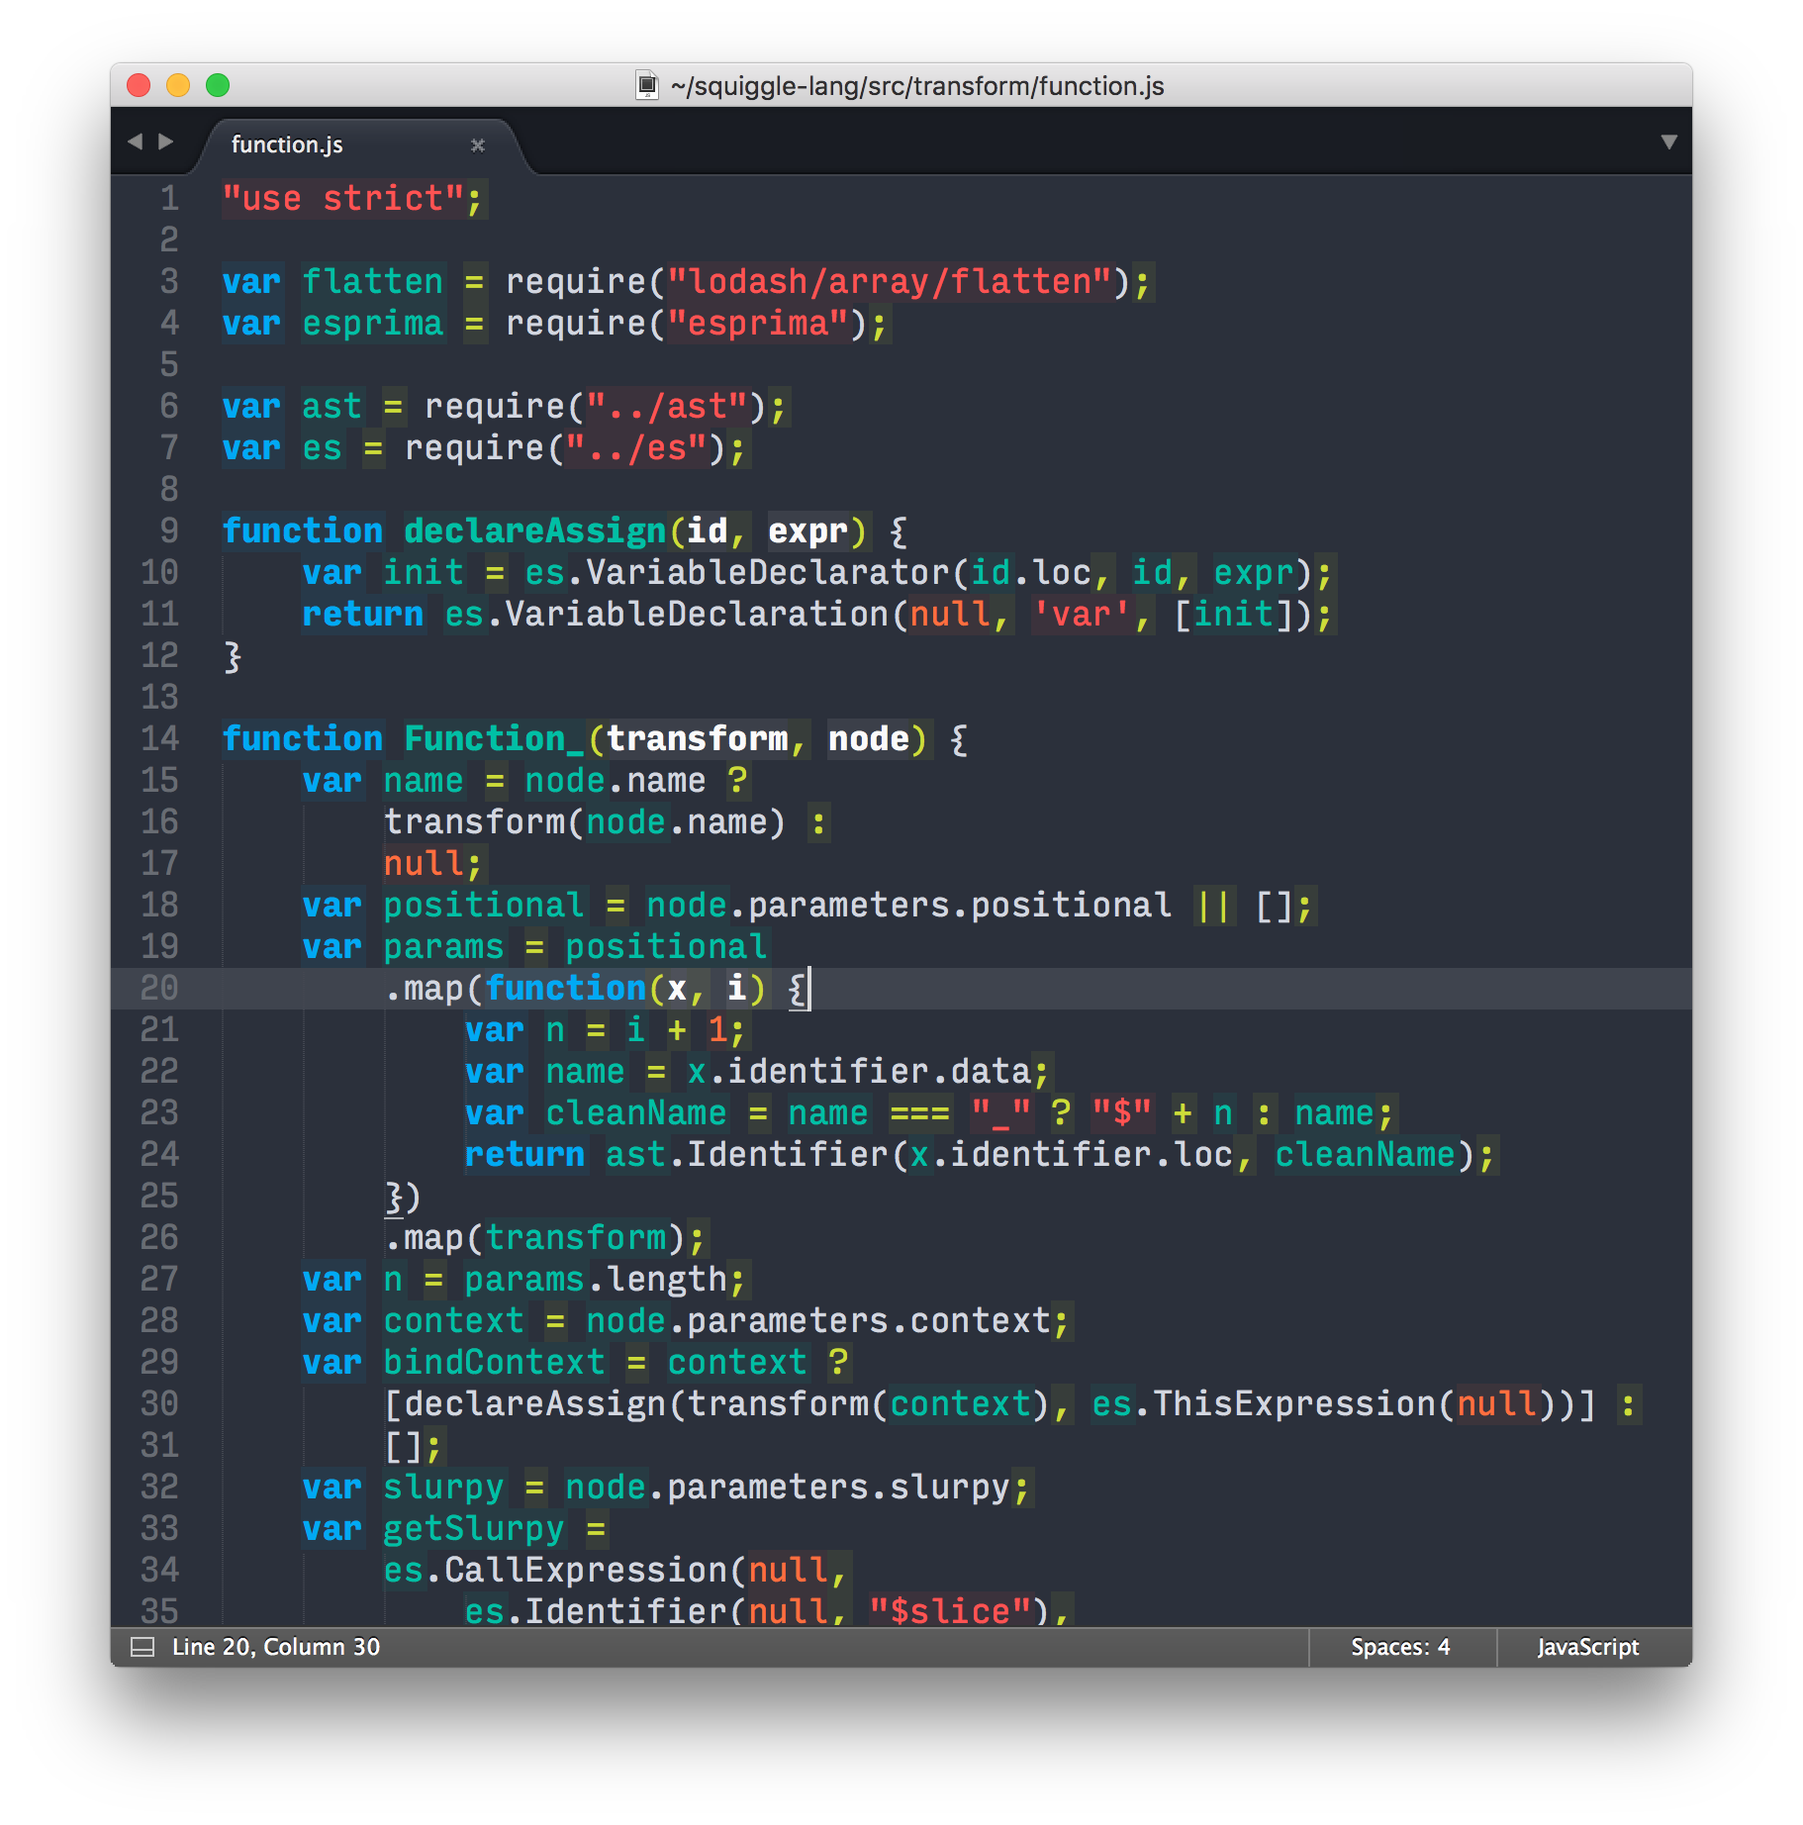
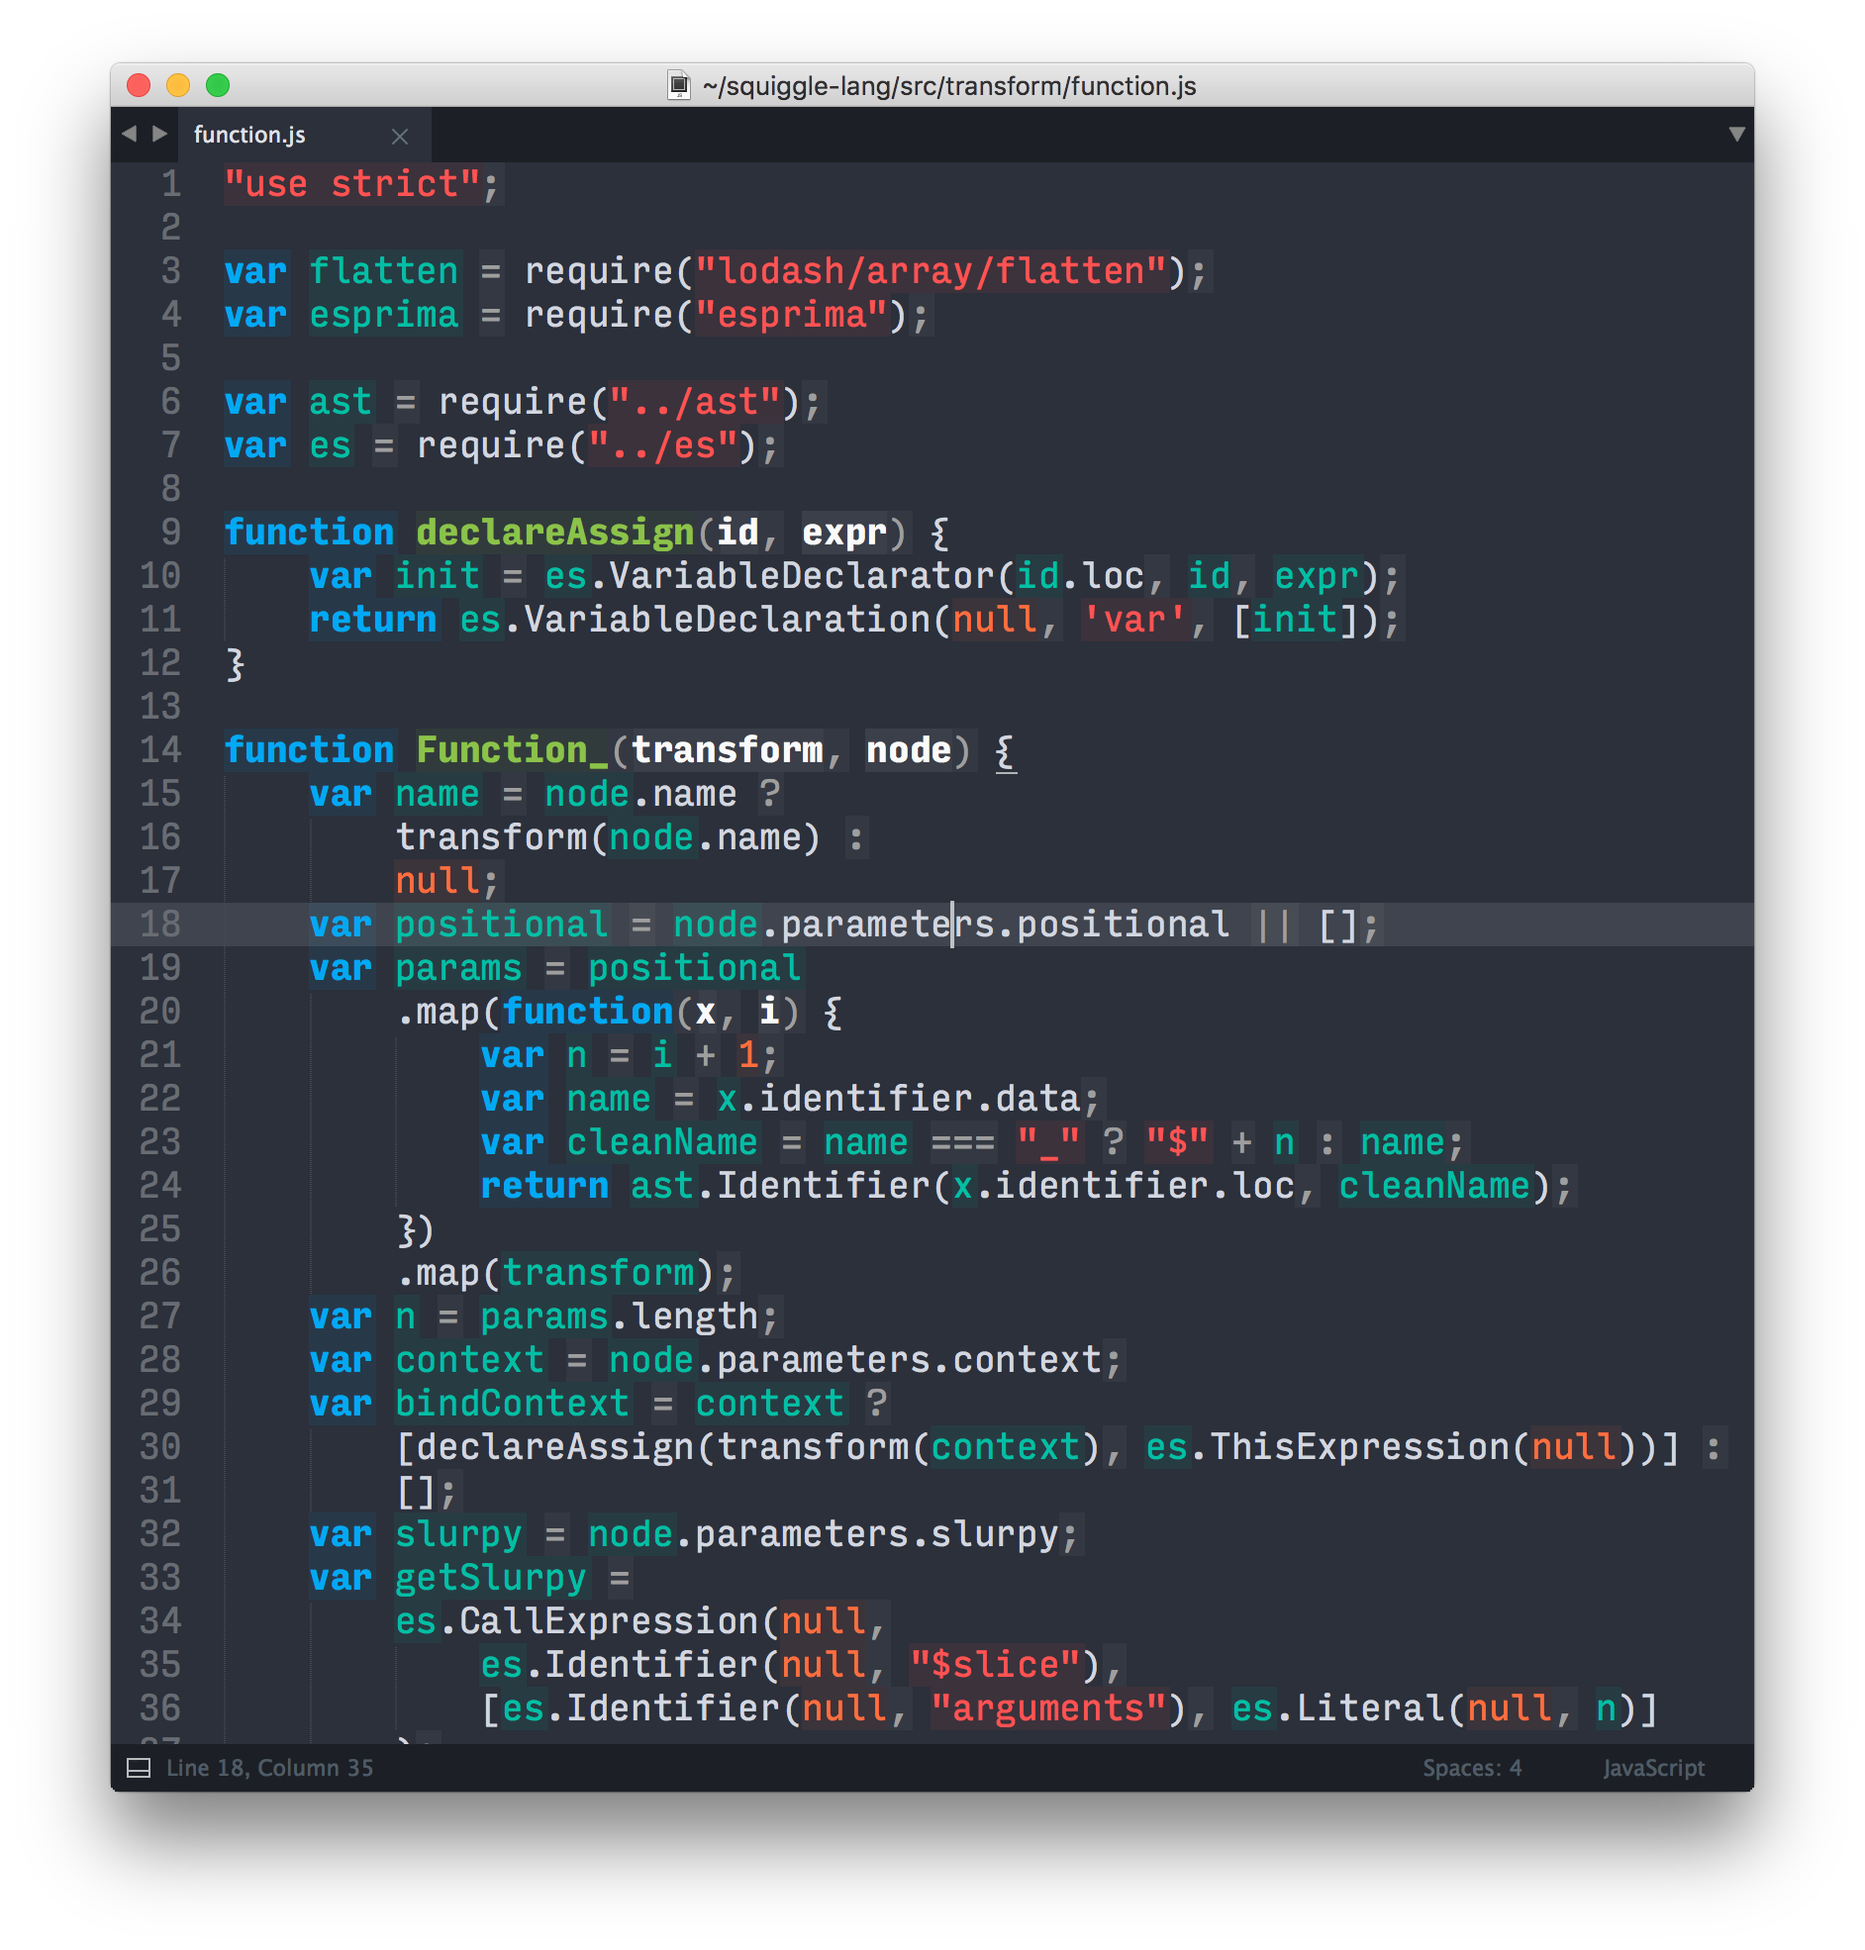
More tweaks

Changed region(s): [[0.0615, 0.2782, 0.9528, 0.9273], [0.0615, 0.0309, 0.9528, 0.34]]

diff --git a/main.rb b/main.rb
@@ -12,7 +12,7 @@ module Color
   RED = "#ff5252"
   GREEN = "#4caf50"
   BLUE = "#03a9f4"
-  YELLOW = "#cddc39"
+  YELLOW = "#8bc34a"
   ORANGE = "#ff6e40"
   PURPLE = "#ba68c8"
   PINK = "#f48fb1"
@@ -238,14 +238,14 @@ module Color
     "Call" => style(PURPLE),
     "Parameter" => style(WHITE, "bold"),
     "Comments" => style(GREEN),
-    "Punctuation" => style(YELLOW),
-    "Delimiters" => style(YELLOW),
-    "Operators" => style(YELLOW),
+    "Punctuation" => style(GRAY),
+    "Delimiters" => style(GRAY),
+    "Operators" => style(GRAY),
     "Search" => style(PURPLE, "bold"),
     "Search Line" => style(BLUE, "bold"),
     "Keywords" => style(BLUE, "bold"),
     "Variables" => style(CYAN),
-    "Functions" => style(CYAN, "bold"),
+    "Functions" => style(YELLOW, "bold"),
     "Classes" => style(PURPLE, "bold"),
     "Methods" => style(PURPLE, "bold"),
     "Storage" => style(BLUE, "bold"),
@@ -268,15 +268,15 @@ module Color
     "Link Text" => style(WHITE, "bold"),
     "Link Url" => style(BLUE),
     "Lists" => style(ORANGE),
-    "Quotes" => style(YELLOW),
-    "Separator" => style(YELLOW),
+    "Quotes" => style(RED),
+    "Separator" => style(GRAY),
     "Inserted" => style(GREEN),
     "Deleted" => style(RED),
     "Changed" => style(YELLOW),
     "Colors" => style(ORANGE),
     "Regular Expressions" => style(ORANGE),
-    "Escape Characters" => style(GREEN),
-    "Embedded" => style(PURPLE),
+    "Escape Characters" => style(CYAN),
+    "Embedded" => style(CYAN),
     "Broken" => style(RED, "bold"),
     "Deprecated" => style(RED, "bold"),
     "Unimplemented" => style(RED, "bold"),
